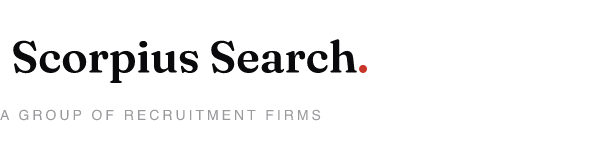
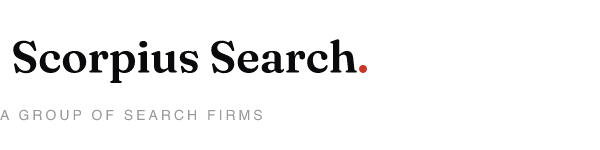
Change tagline to 'A group of search firms' across website, social pack, OG image

Changed region(s): [[0.21, 0.72, 0.54, 0.8]]

diff --git a/index.html b/index.html
@@ -3,12 +3,12 @@
 <head>
 <meta charset="UTF-8" />
 <meta name="viewport" content="width=device-width, initial-scale=1.0" />
-<title>Scorpius Search — A group of recruitment firms</title>
+<title>Scorpius Search · A group of search firms</title>
 <meta name="description" content="Scorpius Search is the parent group of Scorpius Staffing, Scorpius Leads and Argushaus." />
 <meta name="theme-color" content="#FFFFFF" />
 
 <meta property="og:title" content="Scorpius Search" />
-<meta property="og:description" content="A group of recruitment firms." />
+<meta property="og:description" content="A group of search firms." />
 <meta property="og:type" content="website" />
 <meta property="og:url" content="https://scorpiussearch.com" />
 
@@ -40,7 +40,7 @@
     <div class="container">
       <span class="mono-label">Est. 2022 &nbsp;·&nbsp; Wilmington, Delaware &nbsp;·&nbsp; Three firms</span>
       <h1 class="display">
-        A group of <em>independent</em> recruitment firms.
+        A group of <em>independent</em> search firms.
       </h1>
     </div>
   </section>
